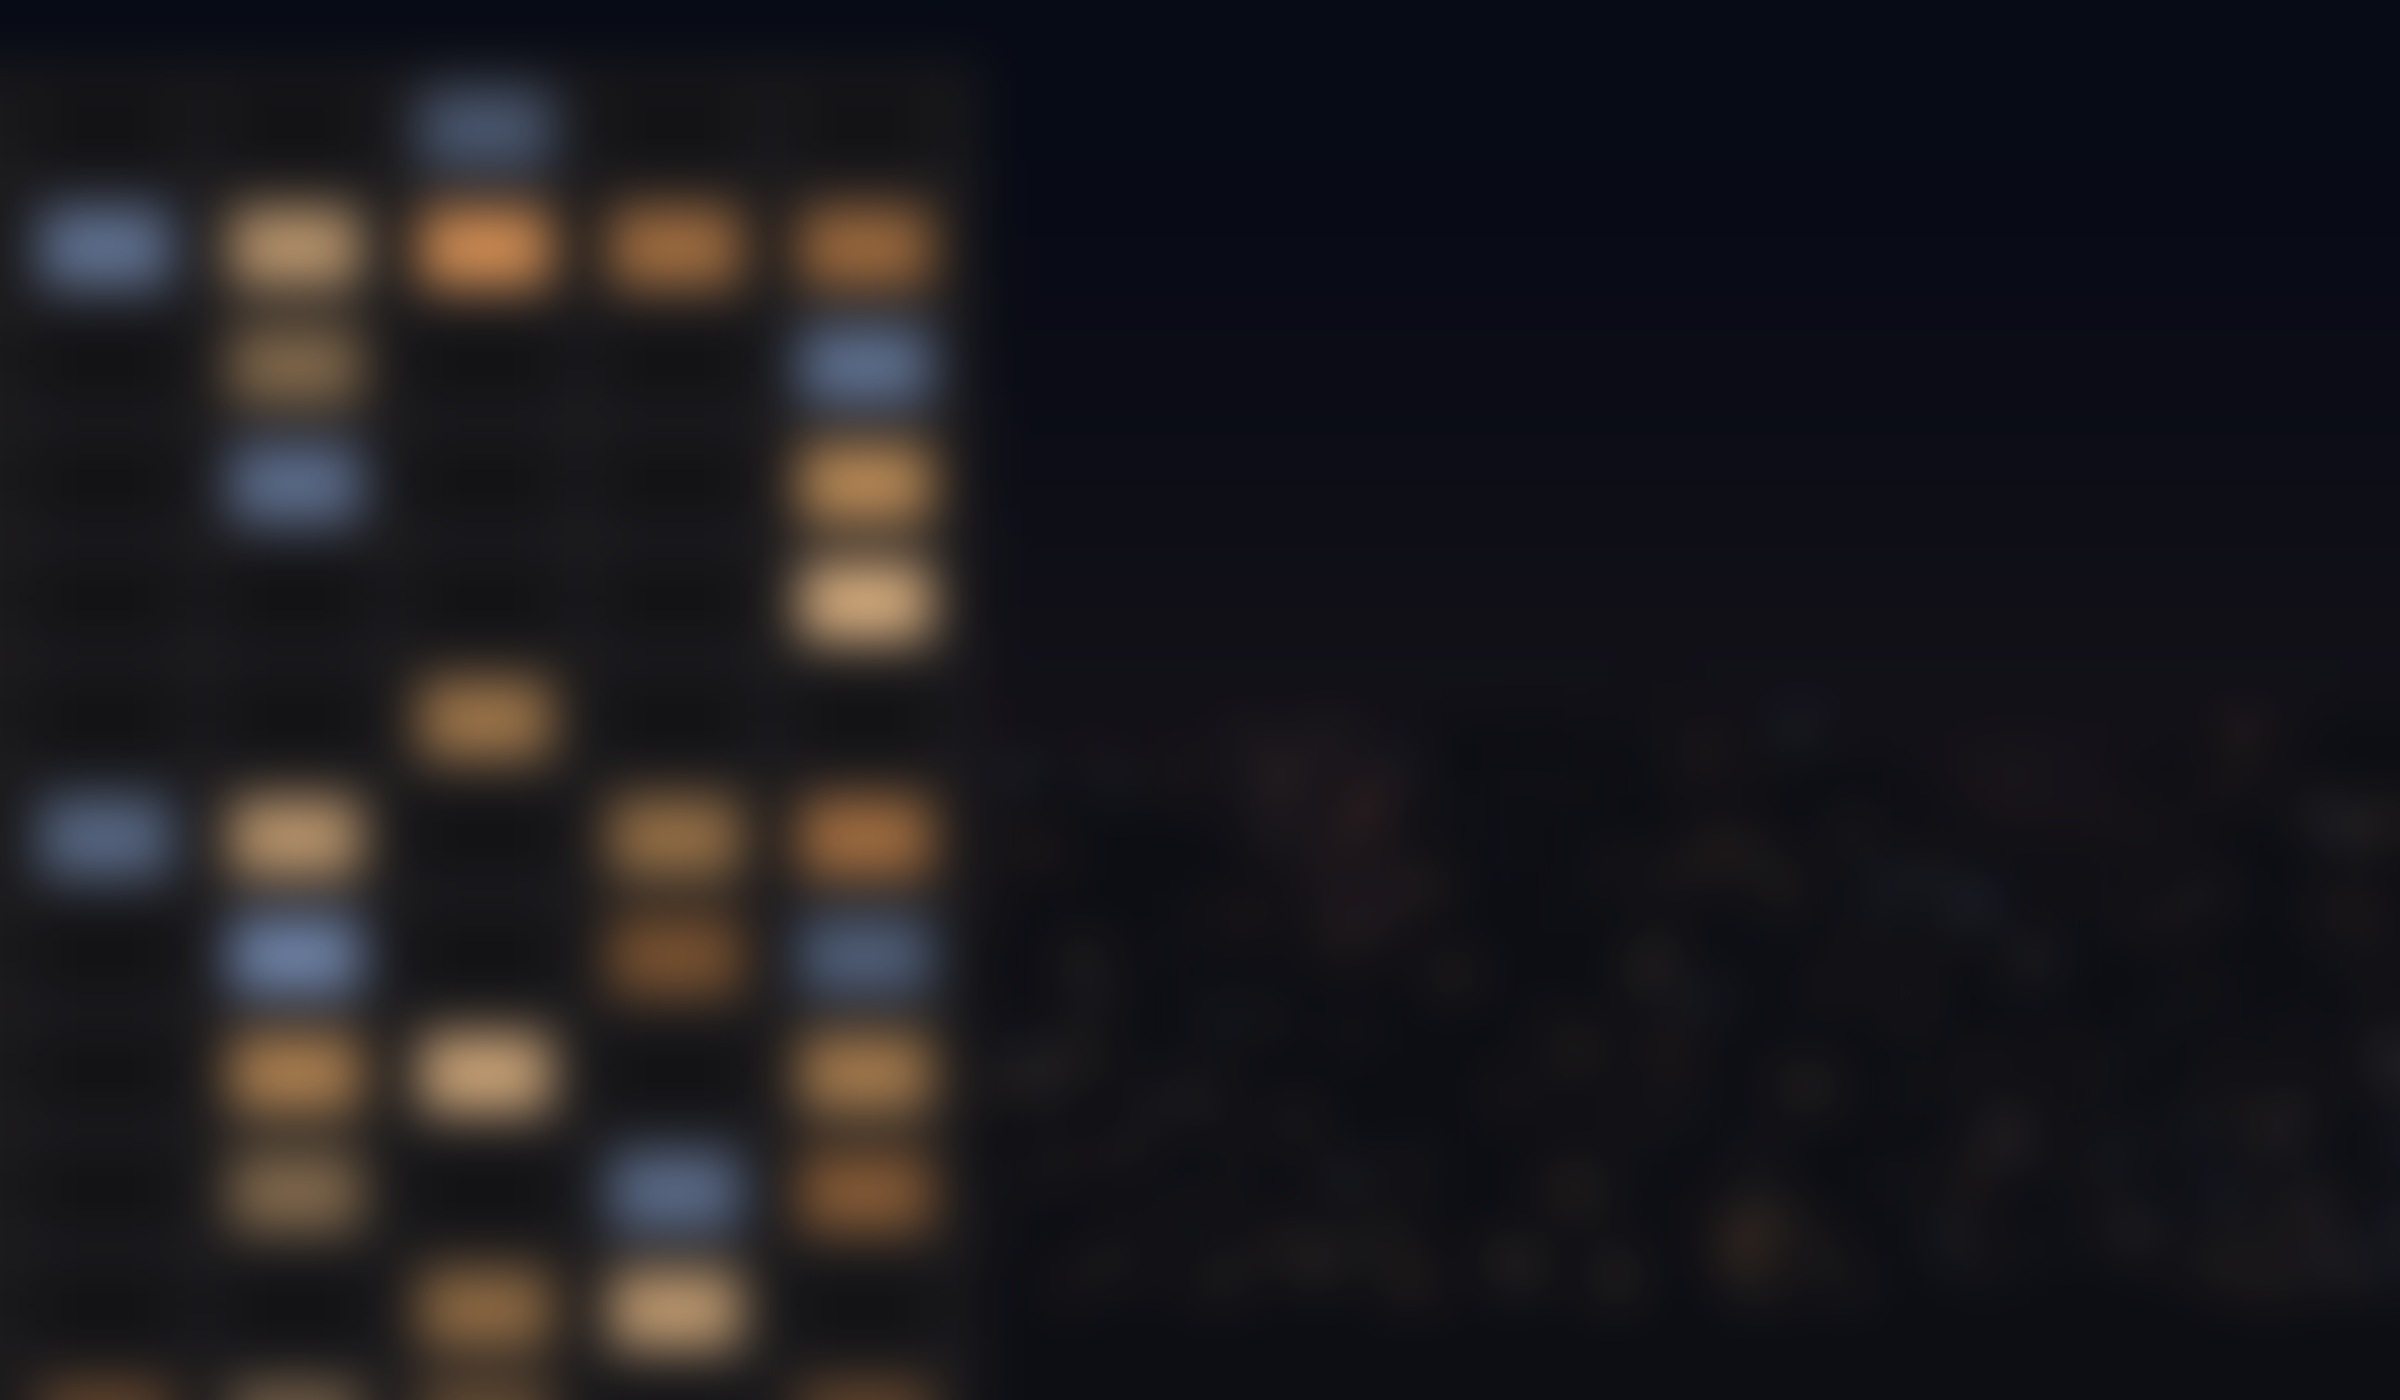
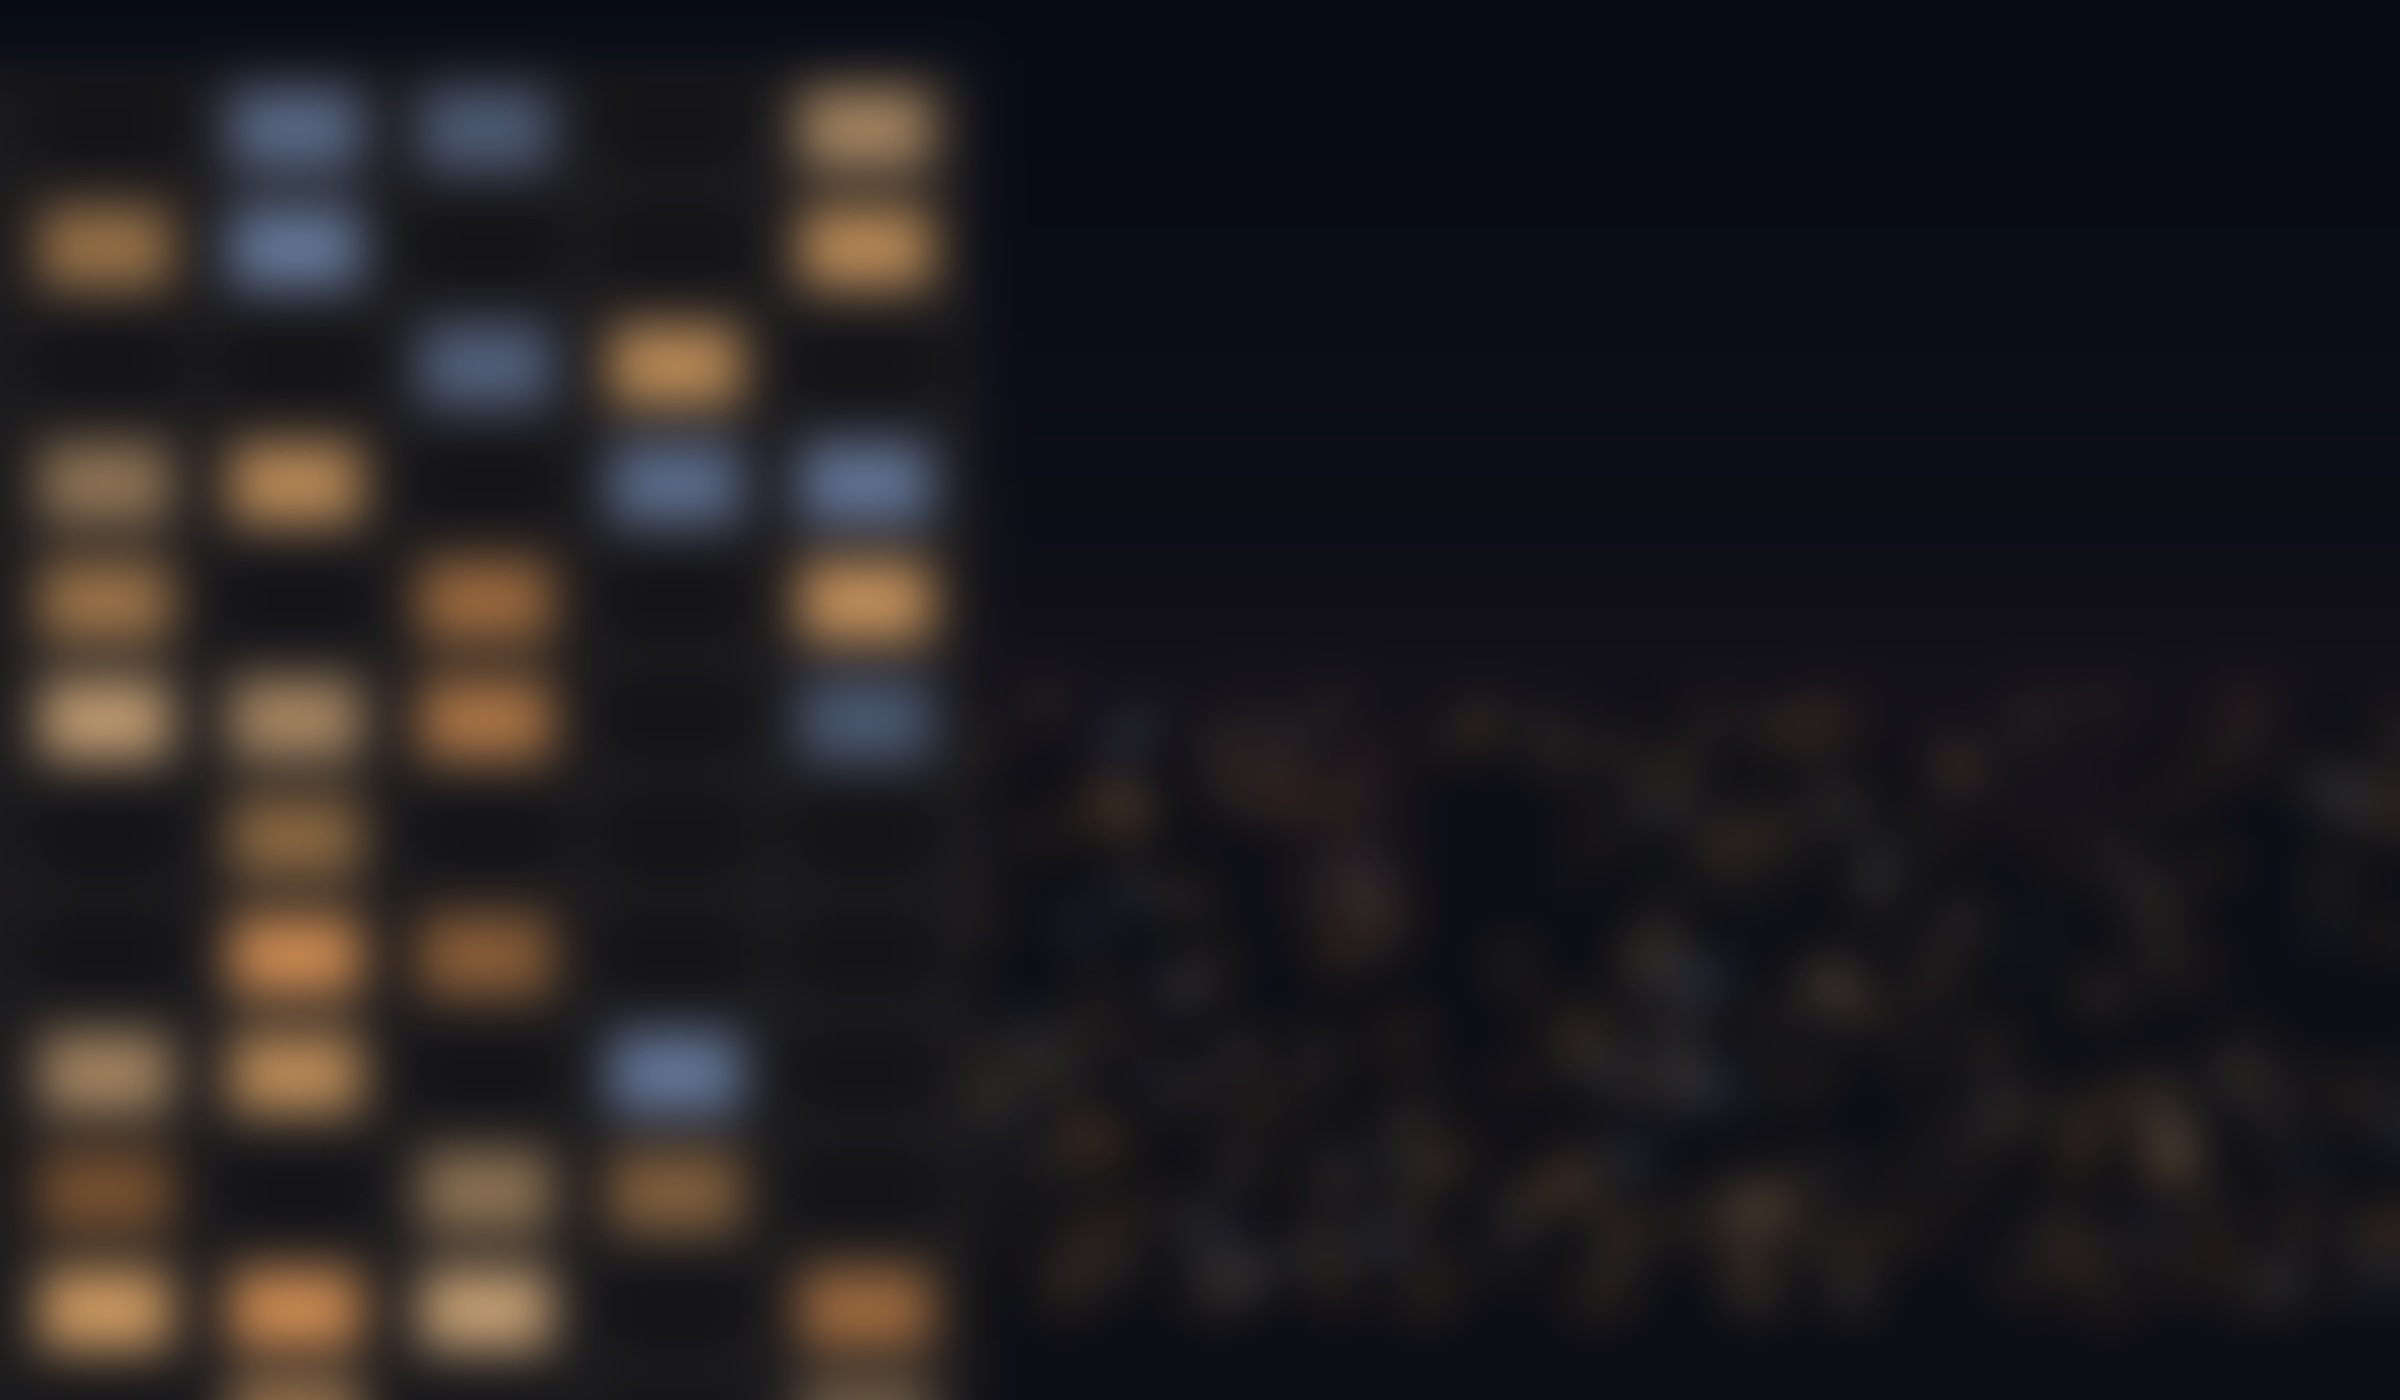
Scene polish and full render plan (20 parallel jobs)
Claude-Session: https://claude.ai/code/session_01LbEA5y7uuK7TWANyfNbMHN

diff --git a/video/scripts/scene.py b/video/scripts/scene.py
@@ -94,7 +94,7 @@ world.node_tree.nodes['Background'].inputs['Strength'].default_value = 1.0
 
 # ---------------------------------------------------------------- materials
 alu = principled('alu', (0.135, 0.14, 0.148), rough=0.34, metal=1.0)
-alu_tp = principled('trackpad', (0.12, 0.125, 0.132), rough=0.22, metal=1.0)
+alu_tp = principled('trackpad', (0.125, 0.13, 0.136), rough=0.42, metal=0.55)
 keys = principled('keys', (0.010, 0.010, 0.011), rough=0.52, spec=0.4)
 well = principled('well', (0.004, 0.004, 0.004), rough=0.7)
 bezel = principled('bezel', (0.002, 0.002, 0.002), rough=0.03, spec=0.5)
@@ -109,7 +109,7 @@ ph_frame = principled('phone_frame', (0.42, 0.42, 0.44), rough=0.22, metal=1.0)
 # wood
 wood = bpy.data.materials.new('wood'); wood.use_nodes = True
 nt = wood.node_tree; b = nt.nodes['Principled BSDF']
-tc = nt.nodes.new('ShaderNodeTexCoord'); mp = nt.nodes.new('ShaderNodeMapping'); mp.inputs['Scale'].default_value = (1.1, 1.1, 1.1)
+tc = nt.nodes.new('ShaderNodeTexCoord'); mp = nt.nodes.new('ShaderNodeMapping'); mp.inputs['Scale'].default_value = (1.7, 1.7, 1.7)
 nt.links.new(tc.outputs['Object'], mp.inputs['Vector'])
 def wtex(fn, cs):
     t = nt.nodes.new('ShaderNodeTexImage'); t.image = img(os.path.join(TEX, fn), cs); t.projection = 'BOX'; t.projection_blend = 0.2
@@ -119,7 +119,7 @@ hsv = nt.nodes.new('ShaderNodeHueSaturation'); hsv.inputs['Value'].default_value
 nt.links.new(c.outputs['Color'], hsv.inputs['Color']); nt.links.new(hsv.outputs['Color'], b.inputs['Base Color'])
 rm = nt.nodes.new('ShaderNodeMapRange'); rm.inputs['To Min'].default_value = 0.28; rm.inputs['To Max'].default_value = 0.62
 nt.links.new(r.outputs['Color'], rm.inputs['Value']); nt.links.new(rm.outputs['Result'], b.inputs['Roughness'])
-nm = nt.nodes.new('ShaderNodeNormalMap'); nm.inputs['Strength'].default_value = 0.45
+nm = nt.nodes.new('ShaderNodeNormalMap'); nm.inputs['Strength'].default_value = 0.3
 nt.links.new(n.outputs['Color'], nm.inputs['Color']); nt.links.new(nm.outputs['Normal'], b.inputs['Normal'])
 b.inputs['Coat Weight'].default_value = 0.18; b.inputs['Coat Roughness'].default_value = 0.22
 
@@ -310,8 +310,8 @@ if args.seg == 'B':
     TXT['role'][0].data.space_character = 1.25
 
 # ---------------------------------------------------------------- shot design
-WIDE_A0 = (Vector((0.27, -0.80, 0.40)), Vector((0.03, 0.20, 0.15)))
-WIDE_A1 = (Vector((0.13, -0.66, 0.365)), Vector((0.01, 0.18, 0.135)))
+WIDE_A0 = (Vector((0.26, -0.75, 0.385)), Vector((0.055, 0.14, 0.12)))
+WIDE_A1 = (Vector((0.15, -0.69, 0.37)), Vector((0.03, 0.15, 0.125)))
 POV_A = (Vector((0.035, -0.53, 0.33)), screen_pt(756, 520))
 POV_A2 = (Vector((0.03, -0.49, 0.315)), screen_pt(756, 500))
 END_B = (Vector((0.11, -0.86, 0.405)), Vector((0.005, 0.16, 0.145)))
@@ -356,7 +356,7 @@ def text_state(f, cam_p, cam_g):
     tr = json.load(open(os.path.join(TEX, 'think_rect.json')))['think_rect_px']
     s0 = screen_pt(tr[0] + 230, tr[1] + tr[3] / 2)  # answer would print where 'Thinking' sits
     k = ease_io((t - 2.15) / 2.0)
-    pos = s0.lerp(at(0.52, 0, 0.012), k)
+    pos = s0.lerp(at(0.52, 0, 0.05), k)
     scale = 0.16 + 0.84 * ease_io((t - 2.15) / 1.6)
     # exit up and away
     e = ease_io((t - 6.35) / 0.9)
@@ -367,7 +367,7 @@ def text_state(f, cam_p, cam_g):
     k2 = ease_out((t - 6.75) / 1.1)
     for ob_, dz, fac_, delay in ((nm_, 0.016, nfac, 0.0), (rl, -0.012, rfac, 0.18), (ur, -0.037, ufac, 0.4)):
         kk = ease_out((t - 6.75 - delay) / 1.0)
-        ob_.location = at(0.52, 0, dz - 0.03 * (1 - kk)); ob_.rotation_euler = rot
+        ob_.location = at(0.52, 0, 0.056 + dz - 0.03 * (1 - kk)); ob_.rotation_euler = rot
         fac_.default_value = clamp((t - 6.75 - delay) / 0.45)
     if t < 2.15: return None
     if t < 6.6: return ans.location
